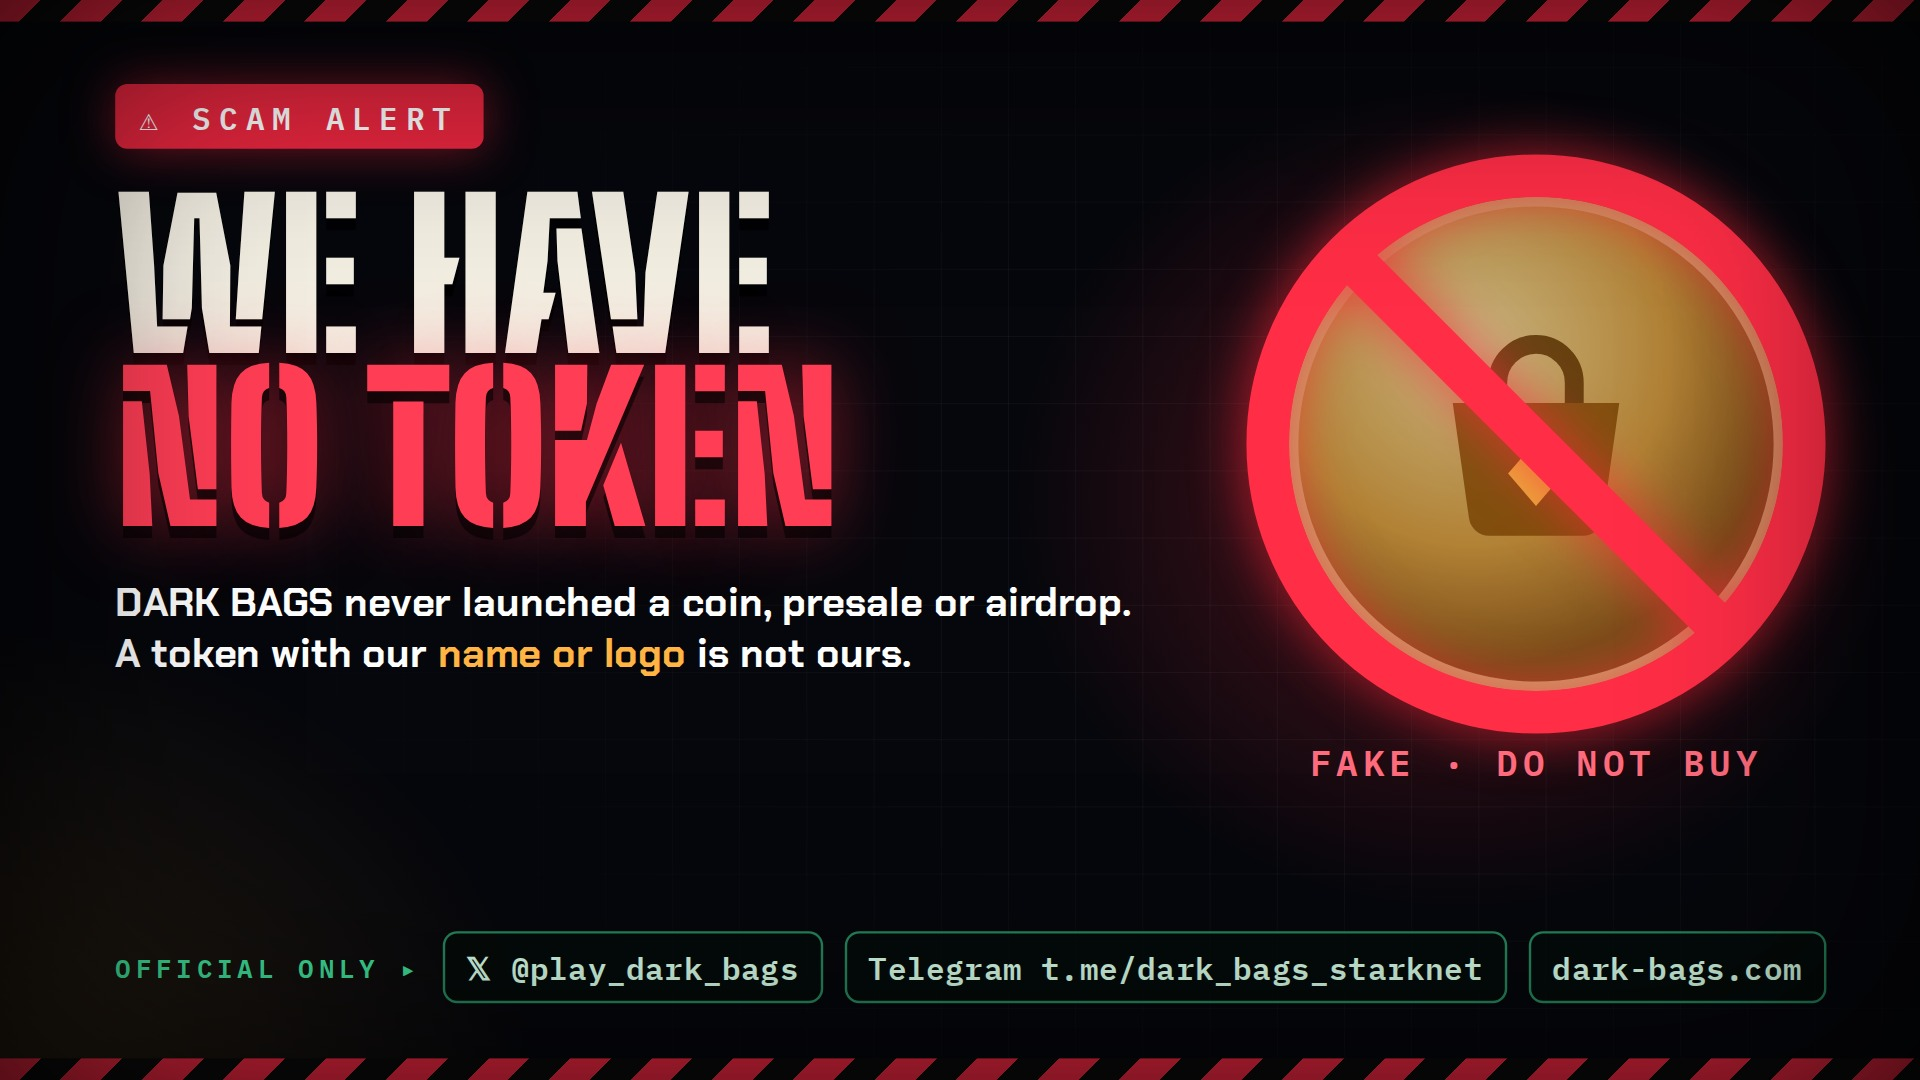
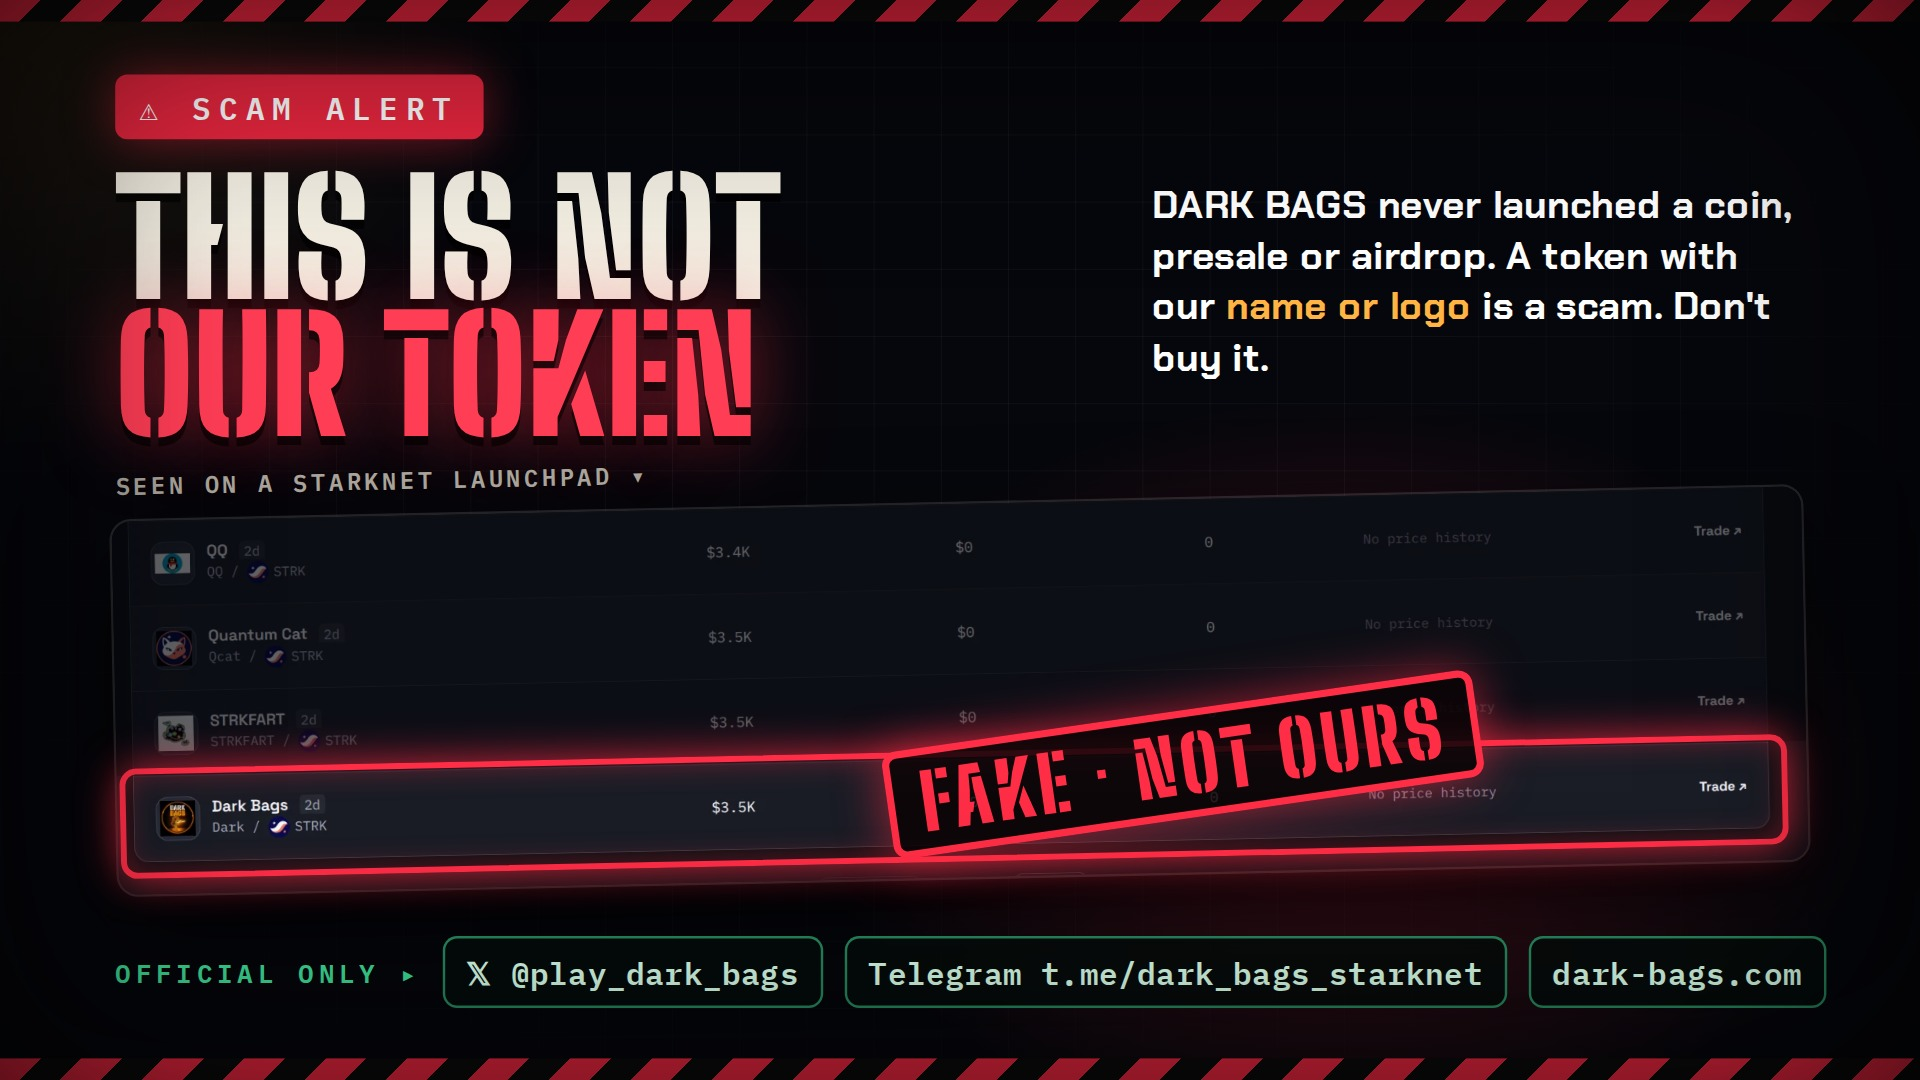
Scam warning image: the launchpad listing itself, the fake Dark Bags row stamped
The screenshot is cropped below the page header, so the wallet that took it never shows.

Claude-Session: https://claude.ai/code/session_01XUb6ytHTiFA732kJbAZMxY

diff --git a/scripts/x/scam.html b/scripts/x/scam.html
@@ -3,38 +3,38 @@
 <head>
 <meta charset="utf-8">
 <!-- The scam warning for X: 1600×900 (16:9, shot at 1.2×). DARK BAGS has no token, and a coin
-     carrying our name or logo is somebody else's. The coin on the right wears the game's bag
-     under a red "no" sign; the line under it names the only places news comes from. -->
+     carrying our name or logo is somebody else's. The proof is the launchpad listing itself
+     (scam-shot.png: the rows only, cropped above the page header so no wallet shows): the other
+     projects' rows are dimmed, the fake "Dark Bags" row is circled and stamped. -->
 <link rel="stylesheet" href="../og/fonts/fonts.css">
 <style>
   html, body { margin: 0; width: 1600px; height: 900px; overflow: hidden; background: #05060a; }
   .s { position: relative; width: 1600px; height: 900px; overflow: hidden; font-family: 'Chakra Petch', sans-serif; color: #efe9dc;
     background:
-      radial-gradient(34% 56% at 76% 46%, rgba(255, 45, 70, 0.30), transparent 68%),
-      radial-gradient(40% 60% at 0% 100%, rgba(255, 170, 40, 0.12), transparent 70%),
+      radial-gradient(40% 50% at 70% 72%, rgba(255, 45, 70, 0.26), transparent 70%),
+      radial-gradient(40% 60% at 0% 0%, rgba(255, 170, 40, 0.10), transparent 70%),
       #06070c; }
-  .grid { position: absolute; inset: 0; background-image: linear-gradient(rgba(255,255,255,0.04) 1px, transparent 1px), linear-gradient(90deg, rgba(255,255,255,0.04) 1px, transparent 1px); background-size: 56px 56px; mask-image: radial-gradient(70% 90% at 70% 50%, #000 30%, transparent 85%); }
-  .copy { position: absolute; left: 96px; top: 70px; width: 860px; }
+  .grid { position: absolute; inset: 0; background-image: linear-gradient(rgba(255,255,255,0.04) 1px, transparent 1px), linear-gradient(90deg, rgba(255,255,255,0.04) 1px, transparent 1px); background-size: 56px 56px; mask-image: radial-gradient(70% 90% at 50% 40%, #000 30%, transparent 85%); }
+  .copy { position: absolute; left: 96px; top: 62px; width: 860px; }
   .kicker { display: inline-flex; align-items: center; gap: 14px; font: 700 26px/1 'IBM Plex Mono', monospace; letter-spacing: 0.24em; text-transform: uppercase; color: #fff; background: #e8263f; padding: 14px 20px; border-radius: 10px; box-shadow: 0 0 40px rgba(232, 38, 63, 0.55); }
-  h1 { margin: 34px 0 0; font: 900 168px/0.86 'Big Shoulders Stencil Display', sans-serif; text-transform: uppercase; }
+  h1 { margin: 26px 0 0; font: 900 132px/0.86 'Big Shoulders Stencil Display', sans-serif; text-transform: uppercase; }
   h1 span { display: block; }
-  h1 .a { color: #f3eee2; text-shadow: 0 10px 0 rgba(0,0,0,0.6); }
-  h1 .b { color: #ff3d55; text-shadow: 0 10px 0 rgba(0,0,0,0.55), 0 0 60px rgba(255, 45, 70, 0.55); }
-  .line { margin: 34px 0 0; font: 600 33px/1.3 'Chakra Petch', sans-serif; color: #fff; }
+  h1 .a { color: #f3eee2; text-shadow: 0 8px 0 rgba(0,0,0,0.6); }
+  h1 .b { color: #ff3d55; text-shadow: 0 8px 0 rgba(0,0,0,0.55), 0 0 60px rgba(255, 45, 70, 0.55); }
+  .line { position: absolute; left: 960px; right: 96px; top: 150px; margin: 0; font: 600 32px/1.32 'Chakra Petch', sans-serif; color: #fff; }
   .line b { color: #ffb443; }
-  .coin { position: absolute; left: 1060px; top: 150px; width: 440px; height: 440px; }
-  .coin .face { position: absolute; inset: 0; border-radius: 50%;
-    background: radial-gradient(60% 60% at 38% 32%, #ffe08a, #f0a020 62%, #a85d06);
-    box-shadow: 0 0 0 14px #c27712 inset, 0 0 0 22px #ffd06a inset, 0 24px 60px rgba(0,0,0,0.6); filter: saturate(0.75) brightness(0.8); }
-  .coin svg.bag { position: absolute; left: 100px; top: 92px; width: 240px; height: 240px; opacity: 0.85; }
-  .coin svg.no { position: absolute; inset: -34px; width: 508px; height: 508px; filter: drop-shadow(0 0 22px rgba(255, 40, 60, 0.75)); }
-  .tag { position: absolute; left: 1060px; top: 620px; width: 440px; text-align: center; font: 800 30px/1 'IBM Plex Mono', monospace; letter-spacing: 0.14em; text-transform: uppercase; color: #ff6b7d; }
-  .official { position: absolute; left: 96px; right: 96px; bottom: 64px; display: flex; align-items: center; gap: 18px; flex-wrap: nowrap; }
+  .shot { position: absolute; left: 96px; top: 420px; width: 1408px; height: 311px; border-radius: 16px; overflow: visible; transform: rotate(-1.2deg); }
+  .shot img { display: block; width: 1408px; height: 311px; border-radius: 16px; box-shadow: 0 0 0 2px rgba(255,255,255,0.12), 0 30px 80px rgba(0,0,0,0.7); }
+  .shot .dim { position: absolute; left: 0; top: 0; width: 1408px; height: 212px; border-radius: 16px 16px 0 0; background: rgba(4, 5, 9, 0.62); }
+  .shot .ring { position: absolute; left: 2px; top: 206px; width: 1380px; height: 82px; border-radius: 14px; border: 5px solid #ff2d46; box-shadow: 0 0 34px rgba(255, 45, 70, 0.8), inset 0 0 24px rgba(255, 45, 70, 0.35); }
+  .shot .stamp { position: absolute; left: 640px; top: 176px; transform: rotate(-7deg); font: 900 64px/1 'Big Shoulders Stencil Display', sans-serif; letter-spacing: 0.06em; text-transform: uppercase; color: #ff2d46; padding: 8px 22px 6px; border: 6px solid #ff2d46; border-radius: 12px; background: rgba(12, 4, 6, 0.86); box-shadow: 0 0 40px rgba(255, 45, 70, 0.6); }
+  .shot .src { position: absolute; left: 4px; top: -40px; font: 600 20px/1 'IBM Plex Mono', monospace; letter-spacing: 0.14em; text-transform: uppercase; color: #a9a39a; }
+  .official { position: absolute; left: 96px; right: 96px; bottom: 60px; display: flex; align-items: center; gap: 18px; flex-wrap: nowrap; }
   .official .lbl { font: 700 22px/1 'IBM Plex Mono', monospace; letter-spacing: 0.18em; text-transform: uppercase; color: #3ddc97; white-space: nowrap; }
   .chip { font: 700 26px/1 'IBM Plex Mono', monospace; padding: 15px 18px; border-radius: 12px; border: 2px solid rgba(61, 220, 151, 0.6); background: rgba(5, 12, 10, 0.85); color: #d9ffe9; white-space: nowrap; }
   .hazard { position: absolute; left: 0; right: 0; bottom: 0; height: 18px; background: repeating-linear-gradient(135deg, #e8263f 0 24px, #0b0b0b 24px 48px); }
   .hazard.top { top: 0; bottom: auto; }
-  .vignette { position: absolute; inset: 0; box-shadow: inset 0 0 220px rgba(0,0,0,0.85); pointer-events: none; }
+  .vignette { position: absolute; inset: 0; box-shadow: inset 0 0 200px rgba(0,0,0,0.8); pointer-events: none; }
 </style>
 </head>
 <body>
@@ -43,22 +43,16 @@
   <div class="hazard top"></div>
   <div class="copy">
     <div class="kicker">⚠ Scam alert</div>
-    <h1><span class="a">We have</span><span class="b">no token</span></h1>
-    <p class="line">DARK BAGS never launched a coin, presale or airdrop.<br>A token with our <b>name or logo</b> is not ours.</p>
+    <h1><span class="a">This is not</span><span class="b">our token</span></h1>
   </div>
-  <div class="coin">
-    <div class="face"></div>
-    <svg class="bag" viewBox="0 0 64 64" aria-hidden="true">
-      <path d="M23.5 25v-4.5a8.5 8.5 0 0 1 17 0V25" fill="none" stroke="#5a3204" stroke-width="4.2" stroke-linecap="round"/>
-      <path d="M13.5 25h37l-3.6 25.6a4.5 4.5 0 0 1-4.46 3.9H21.56a4.5 4.5 0 0 1-4.46-3.9z" fill="#7a4506"/>
-      <path d="M32 33.5l6.2 7.2L32 47.9l-6.2-7.2z" fill="#f3b23a"/>
-    </svg>
-    <svg class="no" viewBox="0 0 100 100" aria-hidden="true">
-      <circle cx="50" cy="50" r="44" fill="none" stroke="#ff2d46" stroke-width="7"/>
-      <path d="M19 19L81 81" stroke="#ff2d46" stroke-width="7" stroke-linecap="round"/>
-    </svg>
+  <p class="line">DARK BAGS never launched a coin, presale or airdrop. A token with our <b>name or logo</b> is a scam. Don't buy it.</p>
+  <div class="shot">
+    <div class="src">Seen on a Starknet launchpad ▾</div>
+    <img src="scam-shot.png" alt="">
+    <div class="dim"></div>
+    <div class="ring"></div>
+    <div class="stamp">Fake · not ours</div>
   </div>
-  <div class="tag">Fake · Do not buy</div>
   <div class="official">
     <span class="lbl">Official only ▸</span>
     <span class="chip">𝕏 @play_dark_bags</span>
@@ -68,6 +62,6 @@
   <div class="hazard"></div>
   <div class="vignette"></div>
 </div>
-<script>document.fonts.ready.then(() => { document.body.dataset.ready = '1'; });</script>
+<script>Promise.all([document.fonts.ready, document.querySelector('img').decode()]).then(() => { document.body.dataset.ready = '1'; });</script>
 </body>
 </html>

diff --git a/brand/x/SCAM.md b/brand/x/SCAM.md
@@ -1,6 +1,6 @@
 # Пост на X: у нас немає токена
 
-Картинка: `brand/x/scam-alert.jpg` (1920×1080). Її малює `ONLY=scam node scripts/make-x.mjs` із `scripts/x/scam.html`.
+Картинка: `brand/x/scam-alert.jpg` (1920×1080), зроблена зі скріншота лаунчпада (`scripts/x/scam-shot.png`, обрізаний вище шапки, щоб не видно гаманця). Її малює `ONLY=scam node scripts/make-x.mjs` із `scripts/x/scam.html`.
 
 Текст (261 з 280 символів):
 
